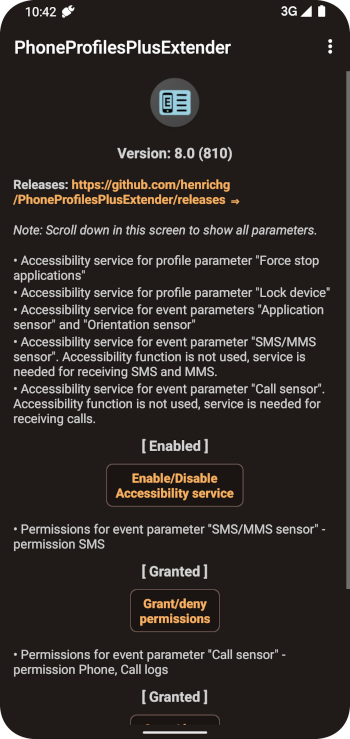
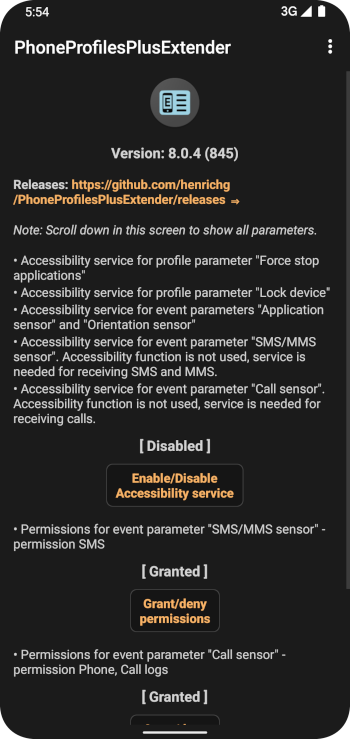
New version 8.0.4.

diff --git a/README.md b/README.md
@@ -3,7 +3,7 @@
 PhoneProfilesPlusExtender (aka PPPE)
 ====================================
 
-[![version](https://img.shields.io/badge/version-8.0.3-blue)](https://github.com/henrichg/PhoneProfilesPlusExtender/releases/tag/8.0.3)
+[![version](https://img.shields.io/badge/version-8.0.4-blue)](https://github.com/henrichg/PhoneProfilesPlusExtender/releases/tag/8.0.4)
 [![Platform](https://img.shields.io/badge/platform-android-green.svg)](http://developer.android.com/index.html)
 [![License](https://img.shields.io/hexpm/l/plug.svg)](https://github.com/henrichg/PhoneProfilesPlus/blob/master/LICENSE)
 [![Crowdin](https://badges.crowdin.net/phoneprofilesplus/localized.svg)](https://crowdin.com/project/phoneprofilesplus)
